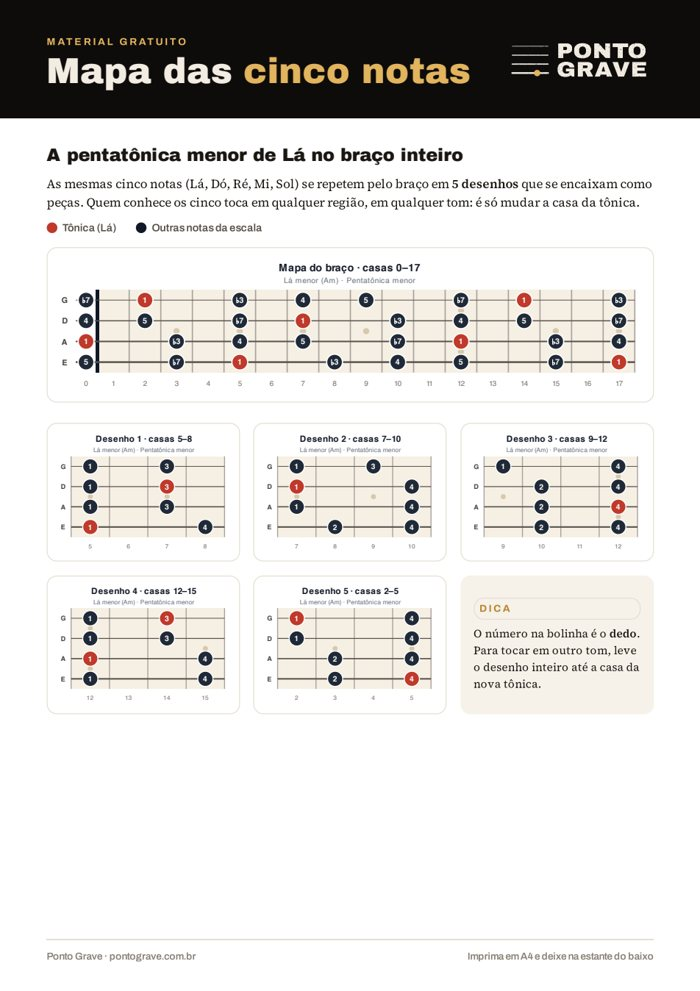
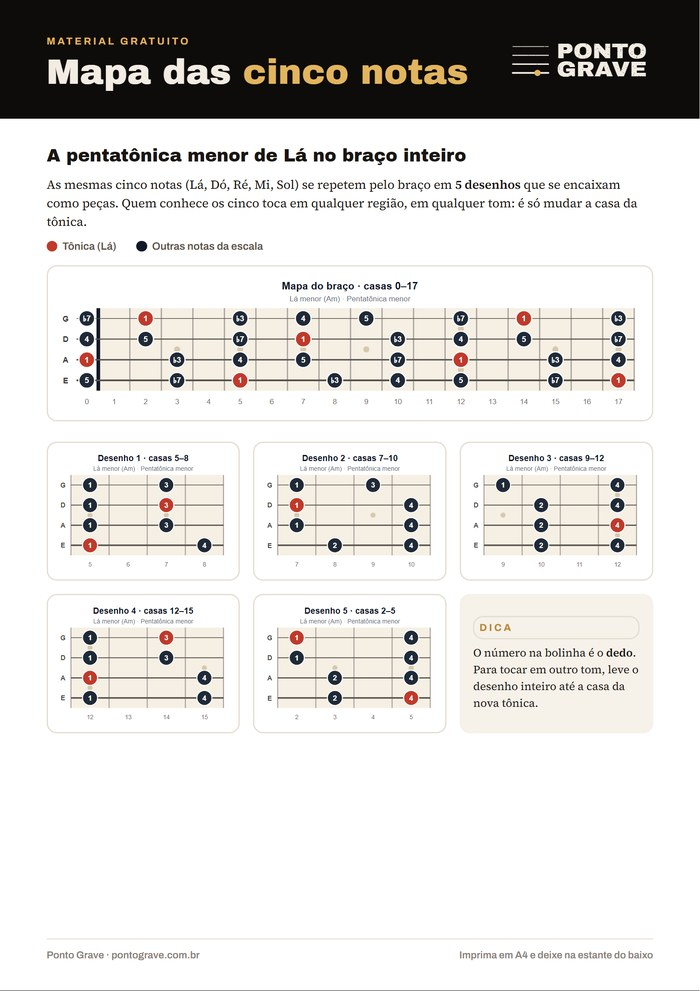
Site: mapa com 3 páginas (3 linhas para tocar)

diff --git a/mapa/index.html b/mapa/index.html
@@ -4,16 +4,16 @@
 <meta charset="utf-8">
 <meta name="viewport" content="width=device-width, initial-scale=1">
 <title>Mapa das cinco notas · grátis · Ponto Grave</title>
-<meta name="description" content="Baixe grátis o Mapa das cinco notas: a pentatônica no braço inteiro do contrabaixo, os 5 desenhos e um roteiro de 7 dias.">
+<meta name="description" content="Baixe grátis o Mapa das cinco notas: a pentatônica no braço inteiro do contrabaixo, os 5 desenhos, um roteiro de 7 dias e 3 linhas para tocar.">
 <link rel="canonical" href="https://pontograve.com.br/mapa/">
-<meta property="og:type" content="website"><meta property="og:title" content="Mapa das cinco notas · grátis · Ponto Grave"><meta property="og:description" content="Baixe grátis o Mapa das cinco notas: a pentatônica no braço inteiro do contrabaixo, os 5 desenhos e um roteiro de 7 dias.">
+<meta property="og:type" content="website"><meta property="og:title" content="Mapa das cinco notas · grátis · Ponto Grave"><meta property="og:description" content="Baixe grátis o Mapa das cinco notas: a pentatônica no braço inteiro do contrabaixo, os 5 desenhos, um roteiro de 7 dias e 3 linhas para tocar.">
 <meta name="p:domain_verify" content="52e3d19f7f7dd872ad8d0d6c3d9c54eb"/>
-<meta property="og:image" content="https://pontograve.com.br/assets/img/brinde-pagina-1.jpg?v=57dc872d"><meta property="og:url" content="https://pontograve.com.br/mapa/"><meta name="twitter:card" content="summary_large_image">
+<meta property="og:image" content="https://pontograve.com.br/assets/img/brinde-pagina-1.jpg?v=11dce629"><meta property="og:url" content="https://pontograve.com.br/mapa/"><meta name="twitter:card" content="summary_large_image">
 <meta name="theme-color" content="#0E0C0A">
 <link rel="icon" href="/assets/icones/icon.svg" type="image/svg+xml"><link rel="apple-touch-icon" href="/assets/icones/icon-180.png">
 <link rel="preconnect" href="https://fonts.googleapis.com"><link rel="preconnect" href="https://fonts.gstatic.com" crossorigin>
 <link rel="stylesheet" href="https://fonts.googleapis.com/css2?family=Archivo+Black&family=Archivo:wght@400;500;600;700&family=JetBrains+Mono&display=swap">
-<link rel="stylesheet" href="/assets/css/site.css?v=bd078284">
+<link rel="stylesheet" href="/assets/css/site.css?v=48e15739">
 
 </head>
 <body class="tema-claro">
@@ -30,12 +30,12 @@
 
 <section class="secao"><div class="wrap"><div class="brinde revelar">
   <div><span class="rot">Material gratuito</span><h2>Mapa das <span class="o">cinco notas</span></h2>
-    <p class="sub">A pentatônica no braço inteiro, os 5 desenhos com o dedo de cada nota e um roteiro de 7 dias. Numa folha, para imprimir e deixar na estante do baixo.</p>
+    <p class="sub">A pentatônica no braço inteiro, os 5 desenhos com o dedo de cada nota, um roteiro de 7 dias e 3 linhas de baixo para tocar hoje. Em PDF, para imprimir e deixar na estante do baixo.</p>
     <a class="btn btn-ouro" href="https://lista.pontograve.com.br/brinde" style="margin-top:22px">Quero o mapa grátis <span class="seta">→</span></a></div>
-  <div class="folhas" aria-hidden="true"><img src="/assets/img/brinde-pagina-1.jpg?v=57dc872d" alt="" loading="lazy"><img src="/assets/img/brinde-pagina-2.jpg?v=15c05423" alt="" loading="lazy"></div>
+  <div class="folhas" aria-hidden="true"><img src="/assets/img/brinde-pagina-1.jpg?v=11dce629" alt="" loading="lazy"><img src="/assets/img/brinde-pagina-2.jpg?v=8a542baa" alt="" loading="lazy"><img src="/assets/img/brinde-pagina-3.jpg?v=d39fd191" alt="" loading="lazy"></div>
 </div>
 <div class="revelar" style="max-width:720px;margin:40px auto 0"><h2 style="font-size:26px">O que tem no mapa</h2>
-<ul style="line-height:1.8"><li>A pentatônica de Lá menor no braço inteiro, da casa 0 à 12</li><li>Os 5 desenhos, com o dedo de cada nota</li><li>Um roteiro de 7 dias, 15 minutos por dia, para tocar os desenhos sem olhar</li><li>Em PDF, para imprimir em A4</li></ul>
+<ul style="line-height:1.8"><li>A pentatônica de Lá menor no braço inteiro, da casa 0 à 17</li><li>Os 5 desenhos, com o dedo de cada nota</li><li>Um roteiro de 7 dias, 15 minutos por dia, para tocar os desenhos sem olhar</li><li>3 linhas de baixo em tablatura (rock, funk e louvor) para tocar no primeiro dia</li><li>Em que casa fica a tônica nos 12 tons</li><li>Em PDF, para imprimir em A4</li></ul>
 <p>Você deixa seu nome e e-mail e recebe o PDF na hora. Sem spam; você sai da lista quando quiser (<a href="/privacidade/">política de privacidade</a>).</p></div>
 </div></section>
 <script>document.querySelectorAll('a[href^="https://lista.pontograve.com.br/brinde"]').forEach(a => a.href = "https://lista.pontograve.com.br/brinde" + location.search);</script>
@@ -50,6 +50,6 @@
   </div>
   <div class="base"><span>© 2026 Ponto Grave. Todos os direitos reservados. Som de baixo do braço interativo: FluidR3 GM (Frank Wen), licença <a href="https://creativecommons.org/licenses/by/3.0/">CC BY 3.0</a>.</span><span>pontograve.com.br</span></div>
 </div></footer>
-<script src="/assets/js/site.js?v=bd078284" defer></script>
+<script src="/assets/js/site.js?v=48e15739" defer></script>
 </body>
 </html>

diff --git a/blog/index.html b/blog/index.html
@@ -13,7 +13,7 @@
 <link rel="icon" href="/assets/icones/icon.svg" type="image/svg+xml"><link rel="apple-touch-icon" href="/assets/icones/icon-180.png">
 <link rel="preconnect" href="https://fonts.googleapis.com"><link rel="preconnect" href="https://fonts.gstatic.com" crossorigin>
 <link rel="stylesheet" href="https://fonts.googleapis.com/css2?family=Archivo+Black&family=Archivo:wght@400;500;600;700&family=JetBrains+Mono&display=swap">
-<link rel="stylesheet" href="/assets/css/site.css?v=bd078284">
+<link rel="stylesheet" href="/assets/css/site.css?v=48e15739">
 
 </head>
 <body class="tema-claro">
@@ -43,9 +43,9 @@
   <div class="txt"><span class="rot">Pentatônica</span><h3>Pentatônica no baixo: o guia para começar (com os 5 desenhos)</h3><p>As cinco notas que estão no blues, no rock, no funk e no louvor. Onde ficam no braço, como os 5 desenhos se encaixam e um roteiro de 7 dias para tocar sem olhar.</p><span class="meta">5 de outubro de 2026 · 2 min de leitura</span></div></a></div></div></section>
 <section class="secao" style="padding-top:0"><div class="wrap"><div class="brinde revelar">
   <div><span class="rot">Material gratuito</span><h2>Mapa das <span class="o">cinco notas</span></h2>
-    <p class="sub">A pentatônica no braço inteiro, os 5 desenhos com o dedo de cada nota e um roteiro de 7 dias. Numa folha, para imprimir e deixar na estante do baixo.</p>
+    <p class="sub">A pentatônica no braço inteiro, os 5 desenhos com o dedo de cada nota, um roteiro de 7 dias e 3 linhas de baixo para tocar hoje. Em PDF, para imprimir e deixar na estante do baixo.</p>
     <a class="btn btn-ouro" href="https://lista.pontograve.com.br/brinde" style="margin-top:22px">Quero o mapa grátis <span class="seta">→</span></a></div>
-  <div class="folhas" aria-hidden="true"><img src="/assets/img/brinde-pagina-1.jpg?v=57dc872d" alt="" loading="lazy"><img src="/assets/img/brinde-pagina-2.jpg?v=15c05423" alt="" loading="lazy"></div>
+  <div class="folhas" aria-hidden="true"><img src="/assets/img/brinde-pagina-1.jpg?v=11dce629" alt="" loading="lazy"><img src="/assets/img/brinde-pagina-2.jpg?v=8a542baa" alt="" loading="lazy"><img src="/assets/img/brinde-pagina-3.jpg?v=d39fd191" alt="" loading="lazy"></div>
 </div></div></section>
 </main>
 <footer class="rodape"><div class="wrap">
@@ -58,6 +58,6 @@
   </div>
   <div class="base"><span>© 2026 Ponto Grave. Todos os direitos reservados. Som de baixo do braço interativo: FluidR3 GM (Frank Wen), licença <a href="https://creativecommons.org/licenses/by/3.0/">CC BY 3.0</a>.</span><span>pontograve.com.br</span></div>
 </div></footer>
-<script src="/assets/js/site.js?v=bd078284" defer></script>
+<script src="/assets/js/site.js?v=48e15739" defer></script>
 </body>
 </html>

diff --git a/index.html b/index.html
@@ -13,7 +13,7 @@
 <link rel="icon" href="/assets/icones/icon.svg" type="image/svg+xml"><link rel="apple-touch-icon" href="/assets/icones/icon-180.png">
 <link rel="preconnect" href="https://fonts.googleapis.com"><link rel="preconnect" href="https://fonts.gstatic.com" crossorigin>
 <link rel="stylesheet" href="https://fonts.googleapis.com/css2?family=Archivo+Black&family=Archivo:wght@400;500;600;700&family=JetBrains+Mono&display=swap">
-<link rel="stylesheet" href="/assets/css/site.css?v=bd078284">
+<link rel="stylesheet" href="/assets/css/site.css?v=48e15739">
 
 </head>
 <body class="tema-claro">
@@ -74,9 +74,9 @@
 </div></section>
 <section class="secao" style="padding-top:0"><div class="wrap"><div class="brinde revelar">
   <div><span class="rot">Material gratuito</span><h2>Mapa das <span class="o">cinco notas</span></h2>
-    <p class="sub">A pentatônica no braço inteiro, os 5 desenhos com o dedo de cada nota e um roteiro de 7 dias. Numa folha, para imprimir e deixar na estante do baixo.</p>
+    <p class="sub">A pentatônica no braço inteiro, os 5 desenhos com o dedo de cada nota, um roteiro de 7 dias e 3 linhas de baixo para tocar hoje. Em PDF, para imprimir e deixar na estante do baixo.</p>
     <a class="btn btn-ouro" href="https://lista.pontograve.com.br/brinde" style="margin-top:22px">Quero o mapa grátis <span class="seta">→</span></a></div>
-  <div class="folhas" aria-hidden="true"><img src="/assets/img/brinde-pagina-1.jpg?v=57dc872d" alt="" loading="lazy"><img src="/assets/img/brinde-pagina-2.jpg?v=15c05423" alt="" loading="lazy"></div>
+  <div class="folhas" aria-hidden="true"><img src="/assets/img/brinde-pagina-1.jpg?v=11dce629" alt="" loading="lazy"><img src="/assets/img/brinde-pagina-2.jpg?v=8a542baa" alt="" loading="lazy"><img src="/assets/img/brinde-pagina-3.jpg?v=d39fd191" alt="" loading="lazy"></div>
 </div></div></section>
 <section class="secao" style="padding-top:0"><div class="wrap">
   <div class="cab-secao"><div><span class="rot">Blog</span><h2 class="titulo-letras">Para estudar <span class="o">hoje.</span></h2></div><a class="btn btn-linha revelar" href="/blog/">Todos os artigos <span class="seta">→</span></a></div>
@@ -103,6 +103,6 @@
   </div>
   <div class="base"><span>© 2026 Ponto Grave. Todos os direitos reservados. Som de baixo do braço interativo: FluidR3 GM (Frank Wen), licença <a href="https://creativecommons.org/licenses/by/3.0/">CC BY 3.0</a>.</span><span>pontograve.com.br</span></div>
 </div></footer>
-<script src="/assets/js/site.js?v=bd078284" defer></script>
+<script src="/assets/js/site.js?v=48e15739" defer></script>
 </body>
 </html>

diff --git a/blog/pentatonica-no-baixo-guia/index.html b/blog/pentatonica-no-baixo-guia/index.html
@@ -13,7 +13,7 @@
 <link rel="icon" href="/assets/icones/icon.svg" type="image/svg+xml"><link rel="apple-touch-icon" href="/assets/icones/icon-180.png">
 <link rel="preconnect" href="https://fonts.googleapis.com"><link rel="preconnect" href="https://fonts.gstatic.com" crossorigin>
 <link rel="stylesheet" href="https://fonts.googleapis.com/css2?family=Archivo+Black&family=Archivo:wght@400;500;600;700&family=JetBrains+Mono&display=swap">
-<link rel="stylesheet" href="/assets/css/site.css?v=bd078284">
+<link rel="stylesheet" href="/assets/css/site.css?v=48e15739">
 <script type="application/ld+json">{"@context":"https://schema.org","@type":"BlogPosting","headline":"Pentatônica no baixo: o guia para começar (com os 5 desenhos)","description":"As cinco notas que estão no blues, no rock, no funk e no louvor. Onde ficam no braço, como os 5 desenhos se encaixam e um roteiro de 7 dias para tocar sem olhar.","datePublished":"2026-10-05","image":"https://pontograve.com.br/assets/img/blog-mapa-pentatonica.jpg?v=9a340c07","author":{"@type":"Organization","name":"Ponto Grave"},"publisher":{"@type":"Organization","name":"Ponto Grave"}}</script>
 </head>
 <body class="tema-claro">
@@ -69,7 +69,7 @@ E|-5--8------------|
 </tbody></table>
 <p>São <strong>15 minutos por dia</strong>. Pouco todo dia vale mais do que muito de vez em quando.</p>
 <blockquote>
-<p><strong>Quer o mapa completo?</strong> O <strong>Mapa das cinco notas</strong> traz a pentatônica da casa 0 à 17, os 5 desenhos com o dedo de cada nota e o roteiro de 7 dias, numa folha para imprimir. É grátis.</p>
+<p><strong>Quer o mapa completo?</strong> O <strong>Mapa das cinco notas</strong> traz a pentatônica da casa 0 à 17, os 5 desenhos com o dedo de cada nota, o roteiro de 7 dias e 3 linhas de baixo em tablatura para tocar hoje. É grátis.</p>
 </blockquote>
 </article>
   <div class="fim-artigo revelar"><a class="btn btn-ouro" href="https://lista.pontograve.com.br/brinde">Baixar o Mapa das cinco notas <span class="seta">→</span></a></div></div>
@@ -91,6 +91,6 @@ E|-5--8------------|
   </div>
   <div class="base"><span>© 2026 Ponto Grave. Todos os direitos reservados. Som de baixo do braço interativo: FluidR3 GM (Frank Wen), licença <a href="https://creativecommons.org/licenses/by/3.0/">CC BY 3.0</a>.</span><span>pontograve.com.br</span></div>
 </div></footer>
-<script src="/assets/js/site.js?v=bd078284" defer></script>
+<script src="/assets/js/site.js?v=48e15739" defer></script>
 </body>
 </html>

diff --git a/livros/cinco-notas/index.html b/livros/cinco-notas/index.html
@@ -13,7 +13,7 @@
 <link rel="icon" href="/assets/icones/icon.svg" type="image/svg+xml"><link rel="apple-touch-icon" href="/assets/icones/icon-180.png">
 <link rel="preconnect" href="https://fonts.googleapis.com"><link rel="preconnect" href="https://fonts.gstatic.com" crossorigin>
 <link rel="stylesheet" href="https://fonts.googleapis.com/css2?family=Archivo+Black&family=Archivo:wght@400;500;600;700&family=JetBrains+Mono&display=swap">
-<link rel="stylesheet" href="/assets/css/site.css?v=bd078284">
+<link rel="stylesheet" href="/assets/css/site.css?v=48e15739">
 
 </head>
 <body class="tema-escuro">
@@ -63,9 +63,9 @@
 </div></section>
 <section class="secao" style="padding-top:0"><div class="wrap"><div class="brinde revelar">
   <div><span class="rot">Material gratuito</span><h2>Mapa das <span class="o">cinco notas</span></h2>
-    <p class="sub">A pentatônica no braço inteiro, os 5 desenhos com o dedo de cada nota e um roteiro de 7 dias. Numa folha, para imprimir e deixar na estante do baixo.</p>
+    <p class="sub">A pentatônica no braço inteiro, os 5 desenhos com o dedo de cada nota, um roteiro de 7 dias e 3 linhas de baixo para tocar hoje. Em PDF, para imprimir e deixar na estante do baixo.</p>
     <a class="btn btn-ouro" href="https://lista.pontograve.com.br/brinde" style="margin-top:22px">Quero o mapa grátis <span class="seta">→</span></a></div>
-  <div class="folhas" aria-hidden="true"><img src="/assets/img/brinde-pagina-1.jpg?v=57dc872d" alt="" loading="lazy"><img src="/assets/img/brinde-pagina-2.jpg?v=15c05423" alt="" loading="lazy"></div>
+  <div class="folhas" aria-hidden="true"><img src="/assets/img/brinde-pagina-1.jpg?v=11dce629" alt="" loading="lazy"><img src="/assets/img/brinde-pagina-2.jpg?v=8a542baa" alt="" loading="lazy"><img src="/assets/img/brinde-pagina-3.jpg?v=d39fd191" alt="" loading="lazy"></div>
 </div></div></section>
 </main>
 <footer class="rodape"><div class="wrap">
@@ -78,6 +78,6 @@
   </div>
   <div class="base"><span>© 2026 Ponto Grave. Todos os direitos reservados. Som de baixo do braço interativo: FluidR3 GM (Frank Wen), licença <a href="https://creativecommons.org/licenses/by/3.0/">CC BY 3.0</a>.</span><span>pontograve.com.br</span></div>
 </div></footer>
-<script src="/assets/js/site.js?v=bd078284" defer></script>
+<script src="/assets/js/site.js?v=48e15739" defer></script>
 </body>
 </html>

diff --git a/sobre/index.html b/sobre/index.html
@@ -13,7 +13,7 @@
 <link rel="icon" href="/assets/icones/icon.svg" type="image/svg+xml"><link rel="apple-touch-icon" href="/assets/icones/icon-180.png">
 <link rel="preconnect" href="https://fonts.googleapis.com"><link rel="preconnect" href="https://fonts.gstatic.com" crossorigin>
 <link rel="stylesheet" href="https://fonts.googleapis.com/css2?family=Archivo+Black&family=Archivo:wght@400;500;600;700&family=JetBrains+Mono&display=swap">
-<link rel="stylesheet" href="/assets/css/site.css?v=bd078284">
+<link rel="stylesheet" href="/assets/css/site.css?v=48e15739">
 
 </head>
 <body class="tema-claro">
@@ -38,9 +38,9 @@
 </div></div>
 <section class="secao" style="padding-top:0"><div class="wrap"><div class="brinde revelar">
   <div><span class="rot">Material gratuito</span><h2>Mapa das <span class="o">cinco notas</span></h2>
-    <p class="sub">A pentatônica no braço inteiro, os 5 desenhos com o dedo de cada nota e um roteiro de 7 dias. Numa folha, para imprimir e deixar na estante do baixo.</p>
+    <p class="sub">A pentatônica no braço inteiro, os 5 desenhos com o dedo de cada nota, um roteiro de 7 dias e 3 linhas de baixo para tocar hoje. Em PDF, para imprimir e deixar na estante do baixo.</p>
     <a class="btn btn-ouro" href="https://lista.pontograve.com.br/brinde" style="margin-top:22px">Quero o mapa grátis <span class="seta">→</span></a></div>
-  <div class="folhas" aria-hidden="true"><img src="/assets/img/brinde-pagina-1.jpg?v=57dc872d" alt="" loading="lazy"><img src="/assets/img/brinde-pagina-2.jpg?v=15c05423" alt="" loading="lazy"></div>
+  <div class="folhas" aria-hidden="true"><img src="/assets/img/brinde-pagina-1.jpg?v=11dce629" alt="" loading="lazy"><img src="/assets/img/brinde-pagina-2.jpg?v=8a542baa" alt="" loading="lazy"><img src="/assets/img/brinde-pagina-3.jpg?v=d39fd191" alt="" loading="lazy"></div>
 </div></div></section>
 </main>
 <footer class="rodape"><div class="wrap">
@@ -53,6 +53,6 @@
   </div>
   <div class="base"><span>© 2026 Ponto Grave. Todos os direitos reservados. Som de baixo do braço interativo: FluidR3 GM (Frank Wen), licença <a href="https://creativecommons.org/licenses/by/3.0/">CC BY 3.0</a>.</span><span>pontograve.com.br</span></div>
 </div></footer>
-<script src="/assets/js/site.js?v=bd078284" defer></script>
+<script src="/assets/js/site.js?v=48e15739" defer></script>
 </body>
 </html>

diff --git a/blog/so-toco-a-tonica/index.html b/blog/so-toco-a-tonica/index.html
@@ -13,7 +13,7 @@
 <link rel="icon" href="/assets/icones/icon.svg" type="image/svg+xml"><link rel="apple-touch-icon" href="/assets/icones/icon-180.png">
 <link rel="preconnect" href="https://fonts.googleapis.com"><link rel="preconnect" href="https://fonts.gstatic.com" crossorigin>
 <link rel="stylesheet" href="https://fonts.googleapis.com/css2?family=Archivo+Black&family=Archivo:wght@400;500;600;700&family=JetBrains+Mono&display=swap">
-<link rel="stylesheet" href="/assets/css/site.css?v=bd078284">
+<link rel="stylesheet" href="/assets/css/site.css?v=48e15739">
 <script type="application/ld+json">{"@context":"https://schema.org","@type":"BlogPosting","headline":"\"Só consigo tocar a tônica\": como dar vida à sua linha de baixo","description":"A tônica é segura, por isso a mão volta sempre para ela. A saída é simples: tônica no tempo 1, pentatônica no resto. Com tablatura e exercício para hoje.","datePublished":"2026-10-08","image":"https://pontograve.com.br/assets/img/blog-tonica.jpg?v=ae58939c","author":{"@type":"Organization","name":"Ponto Grave"},"publisher":{"@type":"Organization","name":"Ponto Grave"}}</script>
 </head>
 <body class="tema-claro">
@@ -89,6 +89,6 @@ E|-5-----------------------|
   </div>
   <div class="base"><span>© 2026 Ponto Grave. Todos os direitos reservados. Som de baixo do braço interativo: FluidR3 GM (Frank Wen), licença <a href="https://creativecommons.org/licenses/by/3.0/">CC BY 3.0</a>.</span><span>pontograve.com.br</span></div>
 </div></footer>
-<script src="/assets/js/site.js?v=bd078284" defer></script>
+<script src="/assets/js/site.js?v=48e15739" defer></script>
 </body>
 </html>

diff --git a/blog/james-jamerson/index.html b/blog/james-jamerson/index.html
@@ -13,7 +13,7 @@
 <link rel="icon" href="/assets/icones/icon.svg" type="image/svg+xml"><link rel="apple-touch-icon" href="/assets/icones/icon-180.png">
 <link rel="preconnect" href="https://fonts.googleapis.com"><link rel="preconnect" href="https://fonts.gstatic.com" crossorigin>
 <link rel="stylesheet" href="https://fonts.googleapis.com/css2?family=Archivo+Black&family=Archivo:wght@400;500;600;700&family=JetBrains+Mono&display=swap">
-<link rel="stylesheet" href="/assets/css/site.css?v=bd078284">
+<link rel="stylesheet" href="/assets/css/site.css?v=48e15739">
 <script type="application/ld+json">{"@context":"https://schema.org","@type":"BlogPosting","headline":"James Jamerson, o baixo que você já ouviu sem saber o nome","description":"Ele quase nunca aparecia nas capas, mas gravou dezenas de sucessos da Motown. Como as linhas dele cantam junto com a voz, e o que todo baixista pode aprender com elas.","datePublished":"2026-10-19","image":"https://pontograve.com.br/assets/img/blog-jamerson.jpg?v=020bea59","author":{"@type":"Organization","name":"Ponto Grave"},"publisher":{"@type":"Organization","name":"Ponto Grave"}}</script>
 </head>
 <body class="tema-claro">
@@ -72,6 +72,6 @@
   </div>
   <div class="base"><span>© 2026 Ponto Grave. Todos os direitos reservados. Som de baixo do braço interativo: FluidR3 GM (Frank Wen), licença <a href="https://creativecommons.org/licenses/by/3.0/">CC BY 3.0</a>.</span><span>pontograve.com.br</span></div>
 </div></footer>
-<script src="/assets/js/site.js?v=bd078284" defer></script>
+<script src="/assets/js/site.js?v=48e15739" defer></script>
 </body>
 </html>

diff --git a/blog/flatwound-ou-roundwound/index.html b/blog/flatwound-ou-roundwound/index.html
@@ -13,7 +13,7 @@
 <link rel="icon" href="/assets/icones/icon.svg" type="image/svg+xml"><link rel="apple-touch-icon" href="/assets/icones/icon-180.png">
 <link rel="preconnect" href="https://fonts.googleapis.com"><link rel="preconnect" href="https://fonts.gstatic.com" crossorigin>
 <link rel="stylesheet" href="https://fonts.googleapis.com/css2?family=Archivo+Black&family=Archivo:wght@400;500;600;700&family=JetBrains+Mono&display=swap">
-<link rel="stylesheet" href="/assets/css/site.css?v=bd078284">
+<link rel="stylesheet" href="/assets/css/site.css?v=48e15739">
 <script type="application/ld+json">{"@context":"https://schema.org","@type":"BlogPosting","headline":"Flatwound ou roundwound? A corda muda o som tanto quanto o baixo","description":"Cordas lisas para o som redondo e vintage, cordas espiraladas para o brilho moderno. Como cada uma soa, para que estilo serve e como escolher a sua.","datePublished":"2026-10-15","image":"https://pontograve.com.br/assets/img/blog-cordas.jpg?v=30ecaba6","author":{"@type":"Organization","name":"Ponto Grave"},"publisher":{"@type":"Organization","name":"Ponto Grave"}}</script>
 </head>
 <body class="tema-claro">
@@ -91,6 +91,6 @@
   </div>
   <div class="base"><span>© 2026 Ponto Grave. Todos os direitos reservados. Som de baixo do braço interativo: FluidR3 GM (Frank Wen), licença <a href="https://creativecommons.org/licenses/by/3.0/">CC BY 3.0</a>.</span><span>pontograve.com.br</span></div>
 </div></footer>
-<script src="/assets/js/site.js?v=bd078284" defer></script>
+<script src="/assets/js/site.js?v=48e15739" defer></script>
 </body>
 </html>

diff --git a/blog/precision-ou-jazz-bass/index.html b/blog/precision-ou-jazz-bass/index.html
@@ -13,7 +13,7 @@
 <link rel="icon" href="/assets/icones/icon.svg" type="image/svg+xml"><link rel="apple-touch-icon" href="/assets/icones/icon-180.png">
 <link rel="preconnect" href="https://fonts.googleapis.com"><link rel="preconnect" href="https://fonts.gstatic.com" crossorigin>
 <link rel="stylesheet" href="https://fonts.googleapis.com/css2?family=Archivo+Black&family=Archivo:wght@400;500;600;700&family=JetBrains+Mono&display=swap">
-<link rel="stylesheet" href="/assets/css/site.css?v=bd078284">
+<link rel="stylesheet" href="/assets/css/site.css?v=48e15739">
 <script type="application/ld+json">{"@context":"https://schema.org","@type":"BlogPosting","headline":"Precision ou Jazz Bass? As diferenças que você ouve e sente","description":"Os dois baixos mais copiados da história. Captadores, braço, controles e som: o que muda de um para o outro e qual combina com o seu estilo.","datePublished":"2026-10-12","image":"https://pontograve.com.br/assets/img/blog-precision-jazz.jpg?v=a04373c2","author":{"@type":"Organization","name":"Ponto Grave"},"publisher":{"@type":"Organization","name":"Ponto Grave"}}</script>
 </head>
 <body class="tema-claro">
@@ -95,6 +95,6 @@
   </div>
   <div class="base"><span>© 2026 Ponto Grave. Todos os direitos reservados. Som de baixo do braço interativo: FluidR3 GM (Frank Wen), licença <a href="https://creativecommons.org/licenses/by/3.0/">CC BY 3.0</a>.</span><span>pontograve.com.br</span></div>
 </div></footer>
-<script src="/assets/js/site.js?v=bd078284" defer></script>
+<script src="/assets/js/site.js?v=48e15739" defer></script>
 </body>
 </html>

diff --git a/livros/sete-acordes/index.html b/livros/sete-acordes/index.html
@@ -13,7 +13,7 @@
 <link rel="icon" href="/assets/icones/icon.svg" type="image/svg+xml"><link rel="apple-touch-icon" href="/assets/icones/icon-180.png">
 <link rel="preconnect" href="https://fonts.googleapis.com"><link rel="preconnect" href="https://fonts.gstatic.com" crossorigin>
 <link rel="stylesheet" href="https://fonts.googleapis.com/css2?family=Archivo+Black&family=Archivo:wght@400;500;600;700&family=JetBrains+Mono&display=swap">
-<link rel="stylesheet" href="/assets/css/site.css?v=bd078284">
+<link rel="stylesheet" href="/assets/css/site.css?v=48e15739">
 
 </head>
 <body class="tema-escuro">
@@ -51,6 +51,6 @@
   </div>
   <div class="base"><span>© 2026 Ponto Grave. Todos os direitos reservados. Som de baixo do braço interativo: FluidR3 GM (Frank Wen), licença <a href="https://creativecommons.org/licenses/by/3.0/">CC BY 3.0</a>.</span><span>pontograve.com.br</span></div>
 </div></footer>
-<script src="/assets/js/site.js?v=bd078284" defer></script>
+<script src="/assets/js/site.js?v=48e15739" defer></script>
 </body>
 </html>

diff --git a/livros/sete-modos/index.html b/livros/sete-modos/index.html
@@ -13,7 +13,7 @@
 <link rel="icon" href="/assets/icones/icon.svg" type="image/svg+xml"><link rel="apple-touch-icon" href="/assets/icones/icon-180.png">
 <link rel="preconnect" href="https://fonts.googleapis.com"><link rel="preconnect" href="https://fonts.gstatic.com" crossorigin>
 <link rel="stylesheet" href="https://fonts.googleapis.com/css2?family=Archivo+Black&family=Archivo:wght@400;500;600;700&family=JetBrains+Mono&display=swap">
-<link rel="stylesheet" href="/assets/css/site.css?v=bd078284">
+<link rel="stylesheet" href="/assets/css/site.css?v=48e15739">
 
 </head>
 <body class="tema-escuro">
@@ -51,6 +51,6 @@
   </div>
   <div class="base"><span>© 2026 Ponto Grave. Todos os direitos reservados. Som de baixo do braço interativo: FluidR3 GM (Frank Wen), licença <a href="https://creativecommons.org/licenses/by/3.0/">CC BY 3.0</a>.</span><span>pontograve.com.br</span></div>
 </div></footer>
-<script src="/assets/js/site.js?v=bd078284" defer></script>
+<script src="/assets/js/site.js?v=48e15739" defer></script>
 </body>
 </html>
